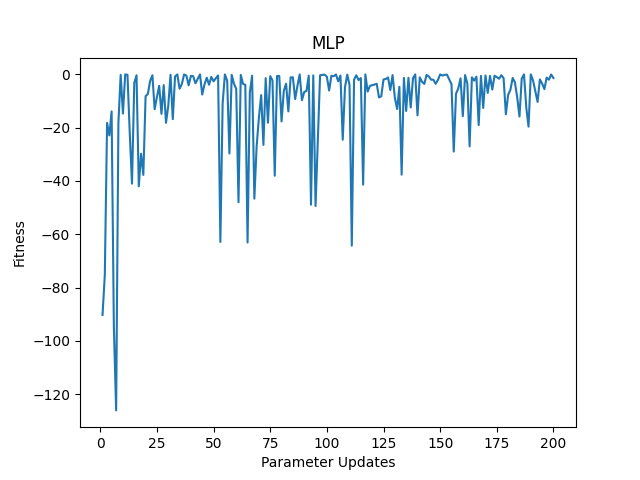
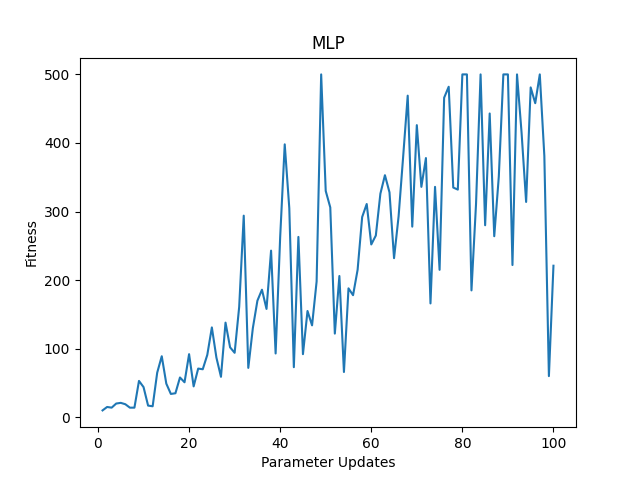
this sucks but hey it works with gym envs now

diff --git a/policy/mlp.py b/policy/mlp.py
@@ -1,32 +1,57 @@
 from collections import OrderedDict
 import torch
 import torch.nn as nn
+from torch.distributions import Categorical
 
-class MLP(nn.Module):
-    def __init__(self, params):
+
+class Model(nn.Module):
+    def __init__(self, n_in, n_h, n_out):
         super().__init__()
 
+        self.n_in = n_in
+        self.n_h = n_h
+        self.n_out = n_out
+
+    def num_params(self):
+        l1 = (self.n_in * self.n_h) + self.n_h 
+        l2 = (self.n_h * self.n_h) + self.n_h
+        l3 = (self.n_h * self.n_out) + self.n_out
+        return l1 + l2 + l3
+
+    def params2layers(self, params):
+        l1 = self.n_h * self.n_in
+        l2 = l1 + self.n_h
+        l3 = l2 + (self.n_h * self.n_h)
+        l4 = l3 + self.n_h
+        l5 = l4 + (self.n_h * self.n_out)
+        return OrderedDict({
+            'main.0.weight': torch.tensor(params[:l1]).view(self.n_h, self.n_in),
+            'main.0.bias': torch.tensor(params[l1:l2]),
+            'main.2.weight': torch.tensor(params[l2:l3]).view(self.n_h, self.n_h),
+            'main.2.bias': torch.tensor(params[l3:l4]),
+            'main.4.weight': torch.tensor(params[l4:l5]).view(self.n_out, self.n_h),
+            'main.4.bias': torch.tensor(params[l5:]),
+        })
+
+
+
+class MLP(Model):
+    def __init__(self, n_in, n_h, n_out):
+        super().__init__(n_in, n_h, n_out)
+
         self.main = nn.Sequential(
-            nn.Linear(1, 32),
+            nn.Linear(n_in, n_h),
             nn.Tanh(),
-            nn.Linear(32, 32),
+            nn.Linear(n_h, n_h),
             nn.Tanh(),
-            nn.Linear(32, 1)
+            nn.Linear(n_h, n_out)
         )
 
-        # print([(k, v.shape) for (k, v) in self.state_dict().items()])
-        # quit()
-
-        d = OrderedDict({
-            'main.0.weight': torch.tensor(params[:32]).view(32, 1),
-            'main.0.bias': torch.tensor(params[32:64]),
-            'main.2.weight': torch.tensor(params[64:1088]).view(32, 32),
-            'main.2.bias': torch.tensor(params[1088:1120]),
-            'main.4.weight': torch.tensor(params[1120:1152]).view(1, 32),
-            'main.4.bias': torch.tensor(params[1152]).unsqueeze(0)
-        })
-        self.load_state_dict(d, strict=True)
+    def set_params(self, params):
+        p = self.params2layers(params)
+        self.load_state_dict(p, strict=True)
 
     def forward(self, s):
-        with torch.no_grad():
-            return self.main(torch.FloatTensor([s])).numpy()
+        logits = self.main(torch.FloatTensor(s))
+        dist = Categorical(logits=logits)
+        return dist.sample()

diff --git a/evolve/train.py b/evolve/train.py
@@ -1,20 +1,23 @@
 import numpy as np
+import torch
+import gym
 
 from evolve.utils import save
 
 
-def fitness(env, policy_class, params):
+def fitness(env, policy, params):
     '''
     Calculate the fitness score for the given policy parameters
     '''
-    policy = policy_class(params)
+    policy.set_params(params)
 
     cum_r = 0
     s = env.reset()
     while True:
         # interact with environment
-        a = policy(s)
-        s2, r, done = env.step(a)
+        with torch.no_grad():
+            a = policy(s).numpy()
+        s2, r, done, _ = env.step(a)
         cum_r += r
 
         # either move to next step or end the episode
@@ -23,29 +26,47 @@ def fitness(env, policy_class, params):
         s = s2
 
 
-#! TODO: generalize this so that the plotting/bookkeeping is separate from the NES/param updates
-def NES(name, env, policy_class, initial_params, num_episodes, lr, sigma, samples):
+def NES(name, env_name, policy_class, n_in, n_h, n_out, num_episodes, lr, sigma, samples, seed=0):
     '''
     Run optimization using the NES algorithm
     '''
+    # create env
+    env = gym.make(env_name)
+
+    # set random seeds
+    env.seed(0)
+    np.random.seed(0)
+    torch.manual_seed(0)
+
+    # dummy policy whose parameters we'll overwrite a lot
+    policy = policy_class(n_in, n_h, n_out)
+
+    # get the initial network params
+    params = np.random.randn(policy.num_params())
+    # params = np.random.randn(num_params(n_in, n_h, n_out))
+
+    # where we'll store the progress of our agent
     fitness_history = []
 
-    params = initial_params
-
+    # train for a set number of episodes
     for _ in range(num_episodes):
 
         # estimate gradient
         grad = 0
-        for _ in range(samples):
+        for _ in range(samples // 2):
+            # add to the gradient estimate (with mirror sampling)
             eps = np.random.randn(*params.shape)
-            grad += fitness(env, policy_class, params + sigma * eps) * eps
+            grad += fitness(env, policy, params + sigma * eps) * eps
+            grad += fitness(env, policy, params - sigma * eps) * (-eps)
+
+        # finish the gradient estimate
         grad /= samples * sigma
 
         # update parameters
         params += lr * grad
 
         # record the fitness of current params
-        fitness_history.append(fitness(env, policy_class, params))
+        fitness_history.append(fitness(env, policy, params))
 
     # save fitness history
     save(fitness_history, name)

diff --git a/run.py b/run.py
@@ -1,31 +1,8 @@
-import numpy as np
-import torch
-
-from env.base import BaseEnv
-from env.line import LineEnv
-
-from policy.linear import LinearPolicy
 from policy.mlp import MLP
 
 from evolve.train import NES
 from evolve.visualize import plot
 
 
-# np.random.seed(0)
-# params = np.array([-0.001, -0.001])
-# params = NES('A', BaseEnv(), LinearPolicy, initial_params=params, num_episodes=200, lr=1e-3, sigma=0.1, samples=10)
-# print(params)
-# plot('A')
-
-# np.random.seed(0)
-# params = np.array([-0.001, -0.001])
-# params = NES('B', LineEnv(), LinearPolicy, initial_params=params, num_episodes=200, lr=1e-9, sigma=0.1, samples=10)
-# print(params)
-# plot('B')
-
-np.random.seed(0)
-torch.manual_seed(0)
-params = np.random.randn(1153)
-params = NES('MLP', BaseEnv(), MLP, initial_params=params, num_episodes=200, lr=3e-4, sigma=0.1, samples=10)
-print(params)
+params = NES('MLP', 'CartPole-v1', MLP, n_in=4, n_h=32, n_out=2, num_episodes=100, lr=3e-4, sigma=0.1, samples=10, seed=0)
 plot('MLP')
